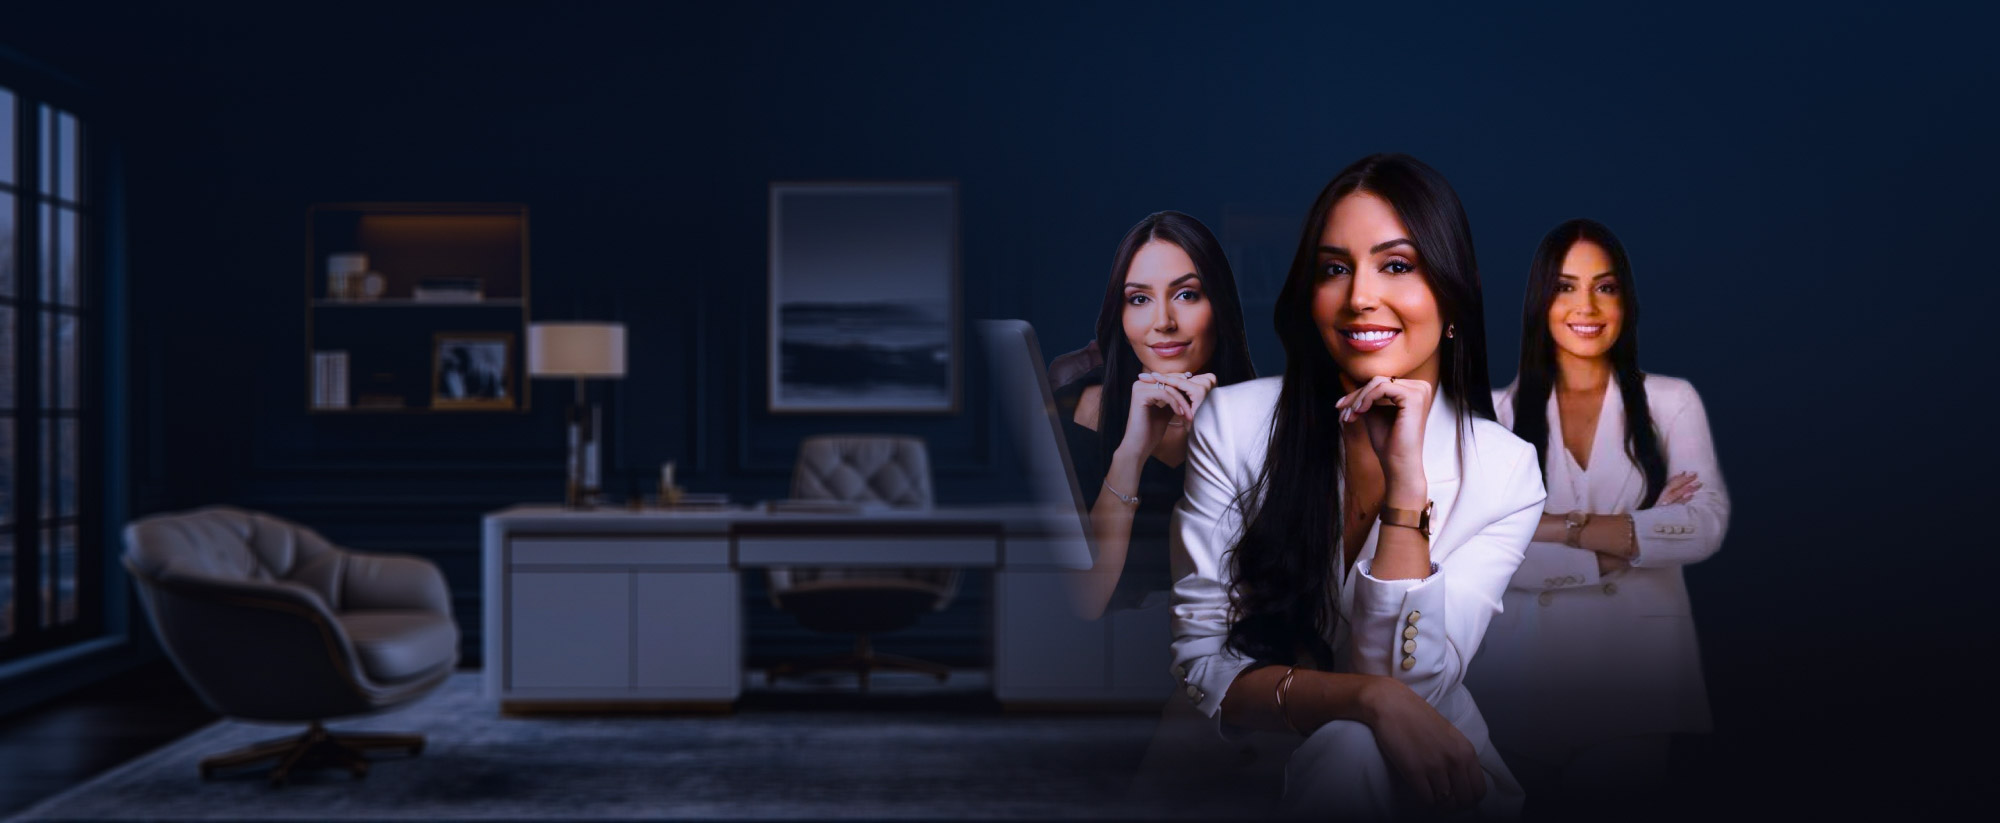
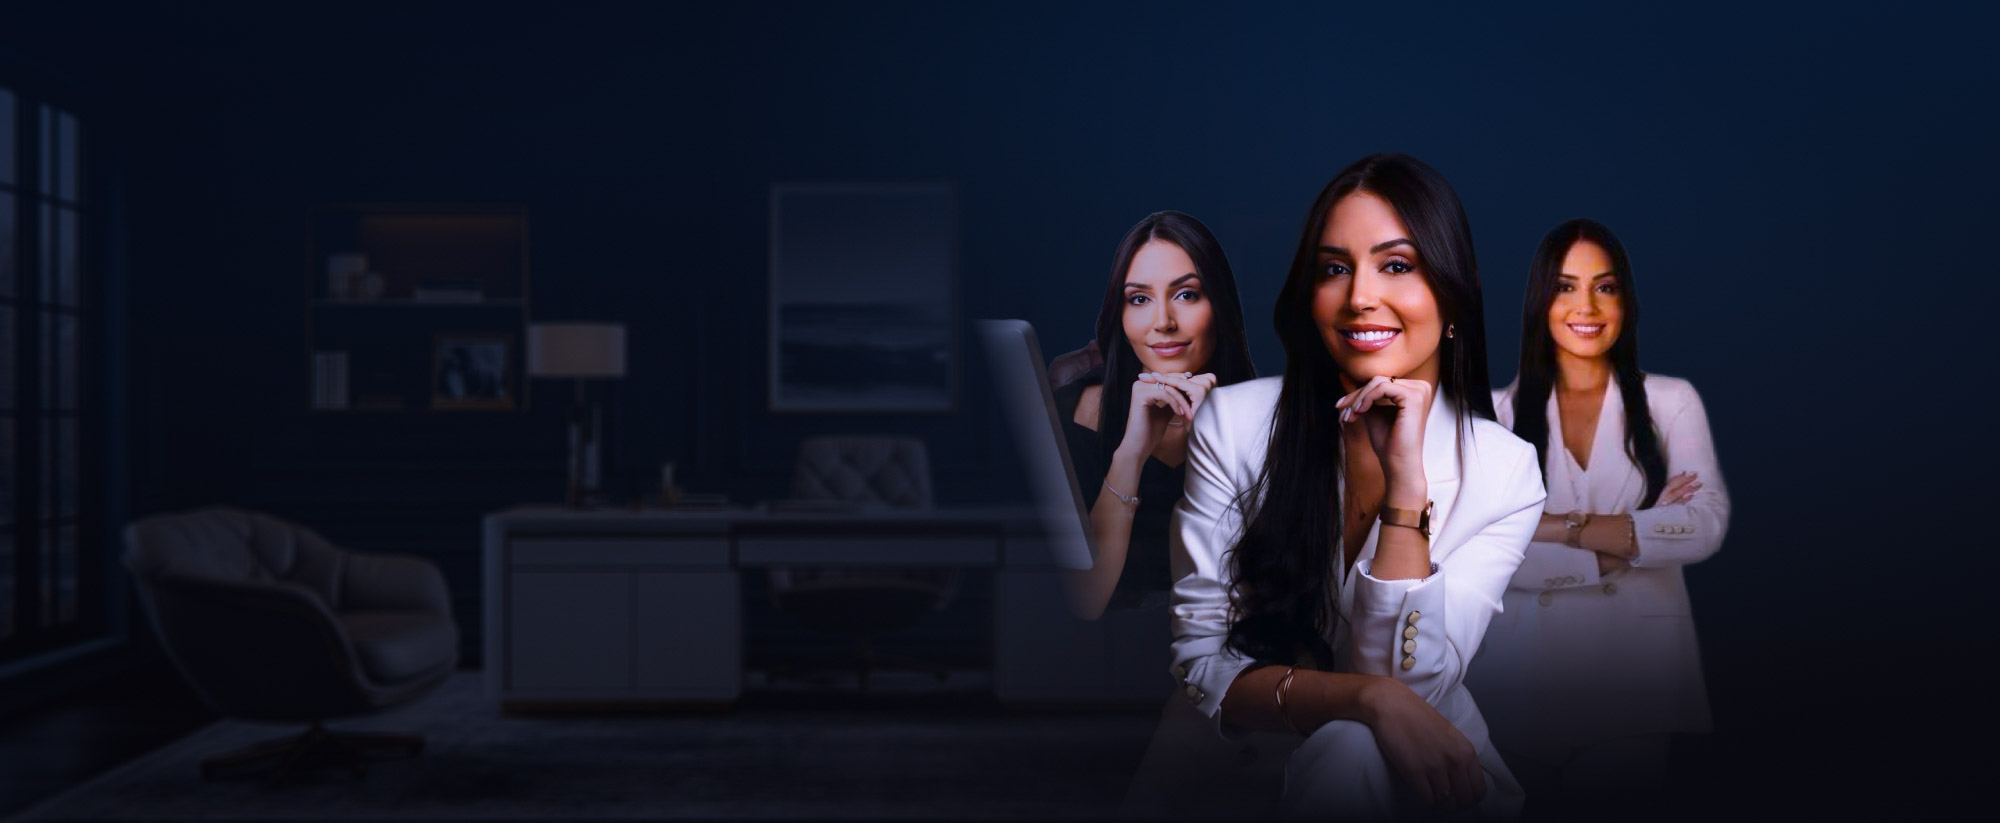
fix: Hero Desktop

diff --git a/src/components/sectionElements/hero/Influencer.jsx b/src/components/sectionElements/hero/Influencer.jsx
@@ -131,7 +131,7 @@ export default function Influencer({ appDownloadButtons }) {
           }}
         >
           <SectionArea paddingTopAndBottom={false} className="relative">
-            <div className="absolute inset-0 w-[65%] h-full bg-gradient-to-r from-darker to-transparent" />
+            <div className="absolute inset-0 w-[60%] h-full bg-gradient-to-r from-darker to-transparent" />
 
             <SectionWrapper>
               <div className="relative z-10 flex w-full items-left pt-[36px] desktop1:py-[90px] desktop2:pb-[90px] ">

diff --git a/src/content/content.jsx b/src/content/content.jsx
@@ -1,6 +1,6 @@
 import logo from "../assets/imgs/logo/logo.webp";
 import heroImgPhone from "../assets/imgs/hero/personImg.webp";
-import heroImgDesktop from "../assets/imgs/hero/bgHeroInfluencer.webp";
+import heroImgDesktop from "../assets/imgs/hero/bgHeroInfluencer.png";
 import bgHeroImg from "../assets/imgs/hero/bgHeroInfluencer.jpg";
 import heroDefaultImg from "../assets/imgs/hero/lawHero.jpg";
 import backgroundPersonMobile from "../assets/imgs/hero/bgHeroMobile.webp";
